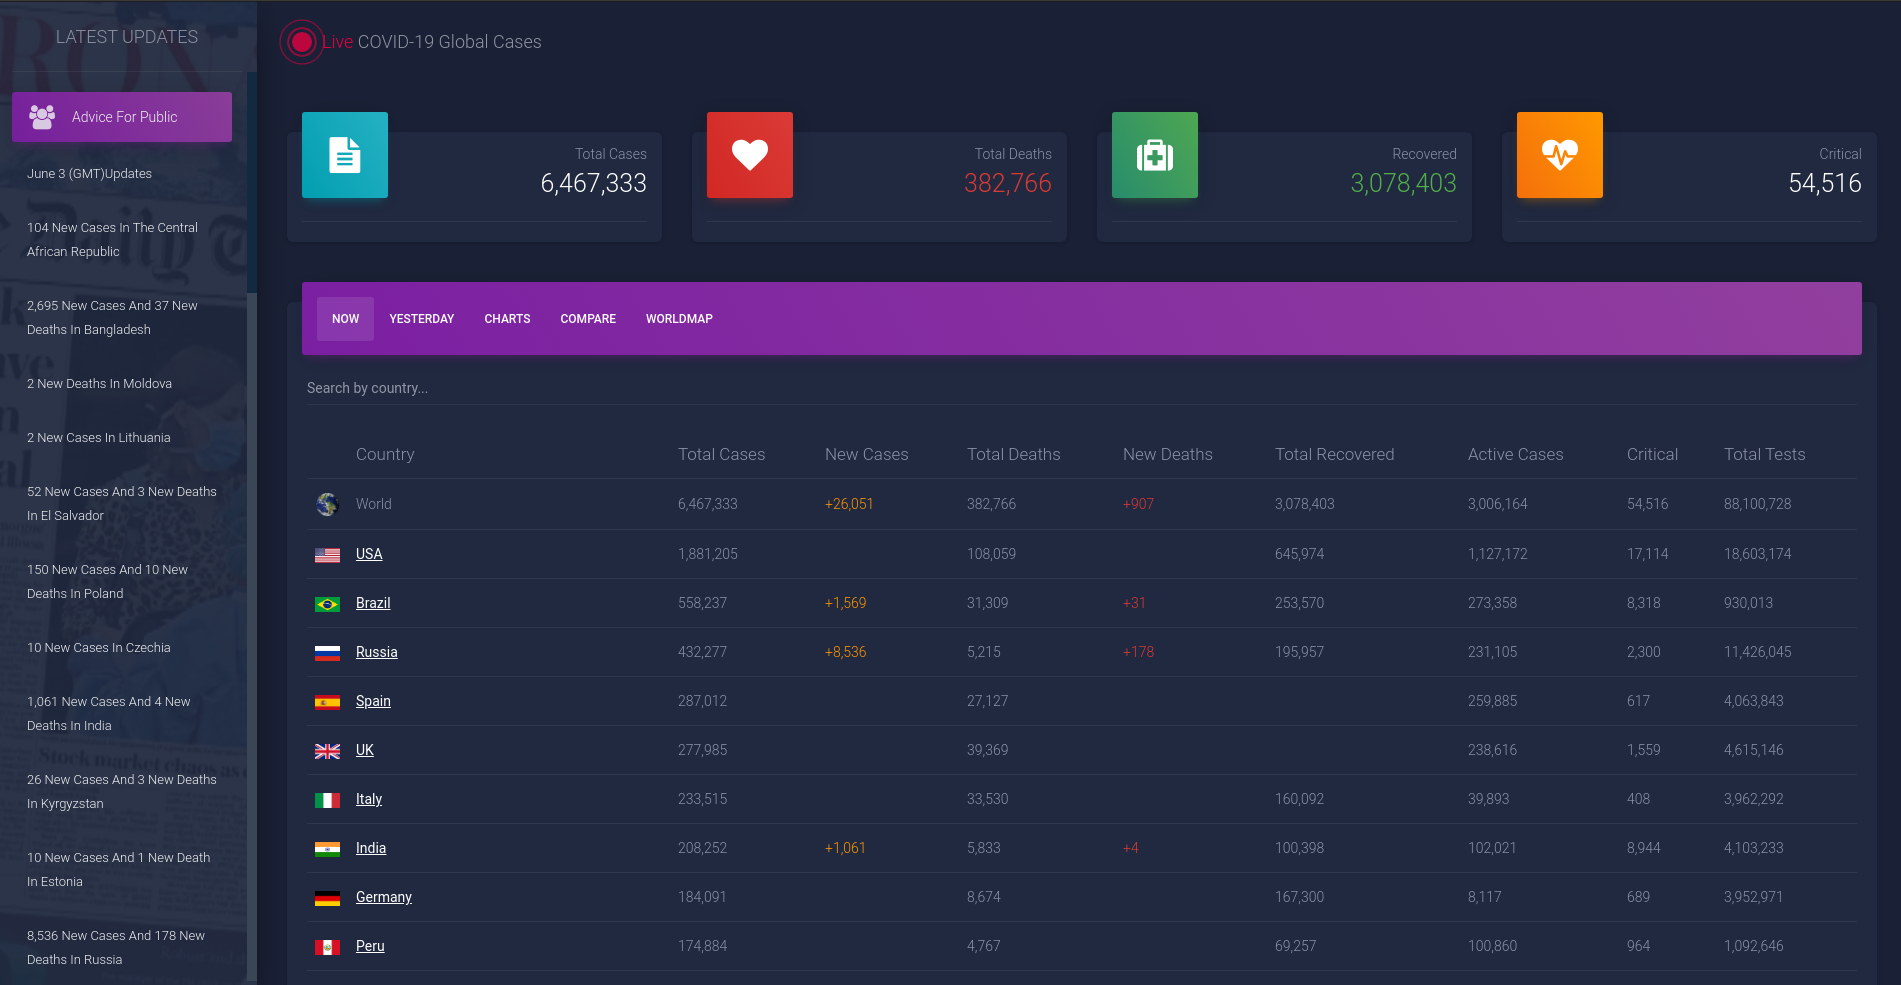
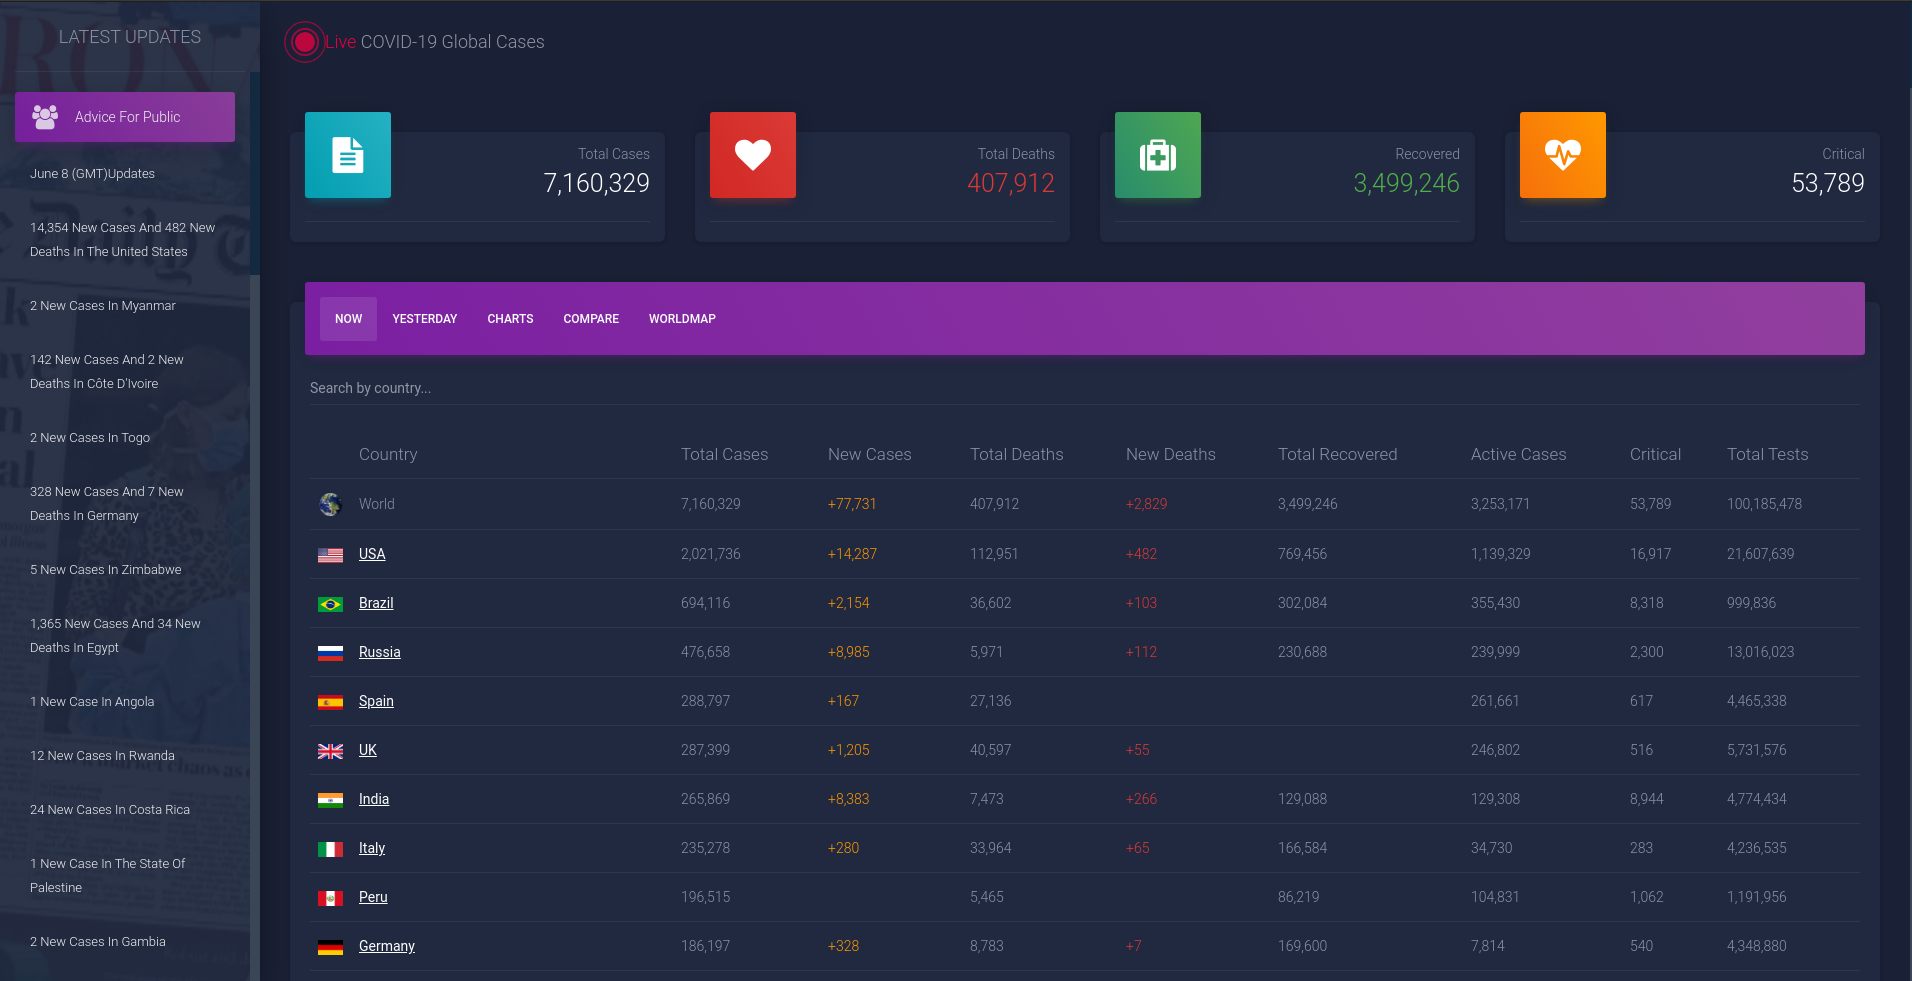
Revised Screenshots

diff --git a/templates/dashboard.html b/templates/dashboard.html
@@ -3,6 +3,8 @@
 {% load humanize %}
 
 {% block head %}
+<link rel="stylesheet" type="text/css" href="https://cdn.datatables.net/1.10.21/css/jquery.dataTables.min.css">
+
 {{block.super}}
 <script src="https://cdn.plot.ly/plotly-latest.min.js"></script>
 {% endblock %}
@@ -324,9 +326,9 @@ function setChart(){
                         </button> -->
                       </div>
                     </br>
-                        <table id="myTableToday" class="table table-hover tablesorter" cellspacing="0" width="100%">
+                        <table id="myTableToday" class="table table-hover tablesorter" style="background-color:#202940;" cellspacing="0" width="100%">
                             <thead class="header" id="myHeader">
-                              <tr>
+                              <tr style="background-color:#202940;">
                                 <th>
                                 </th>
                                 <th>Country
@@ -355,7 +357,7 @@ function setChart(){
                             </thead>
                             
                             <tbody>
-                              <tr>
+                              <tr style="background-color:#202940;">
                                 <td width="1"><img src="{% static 'dark/assets/img/earth.png' %}" alt="Country Flag" height="25" width="25"></td>
                                 <td>World</td>
                                 <td>{{ cases|intcomma }}</td>
@@ -368,7 +370,7 @@ function setChart(){
                                 <td>{{ tests|intcomma }}</td>
                               </tr>
                               {% for item in country %}
-                                <tr>
+                                <tr style="background-color:#202940;">
                                     {% for key, value in item.items %}
 
                                         <!-- {% if key == 'countryInfo' %}
@@ -666,3 +668,12 @@ function setChart(){
         </div>
       </div>
 {% endblock content %}
+
+{% block extra_scripts %}
+<script type="text/javascript" src="https://cdn.datatables.net/1.10.21/js/jquery.dataTables.min.js"></script>
+<script>
+$(document).ready( function () {
+    $('#myTable').DataTable();
+} );
+</script>
+{% endblock extra_scripts %}

diff --git a/templates/base.html b/templates/base.html
@@ -646,6 +646,9 @@ $(document).ready(function(){
   {% block jquery %} {% endblock %}
 })
 </script>
+
+{% block extra_scripts %}
+{% endblock extra_scripts %}
   
 </body>
 
